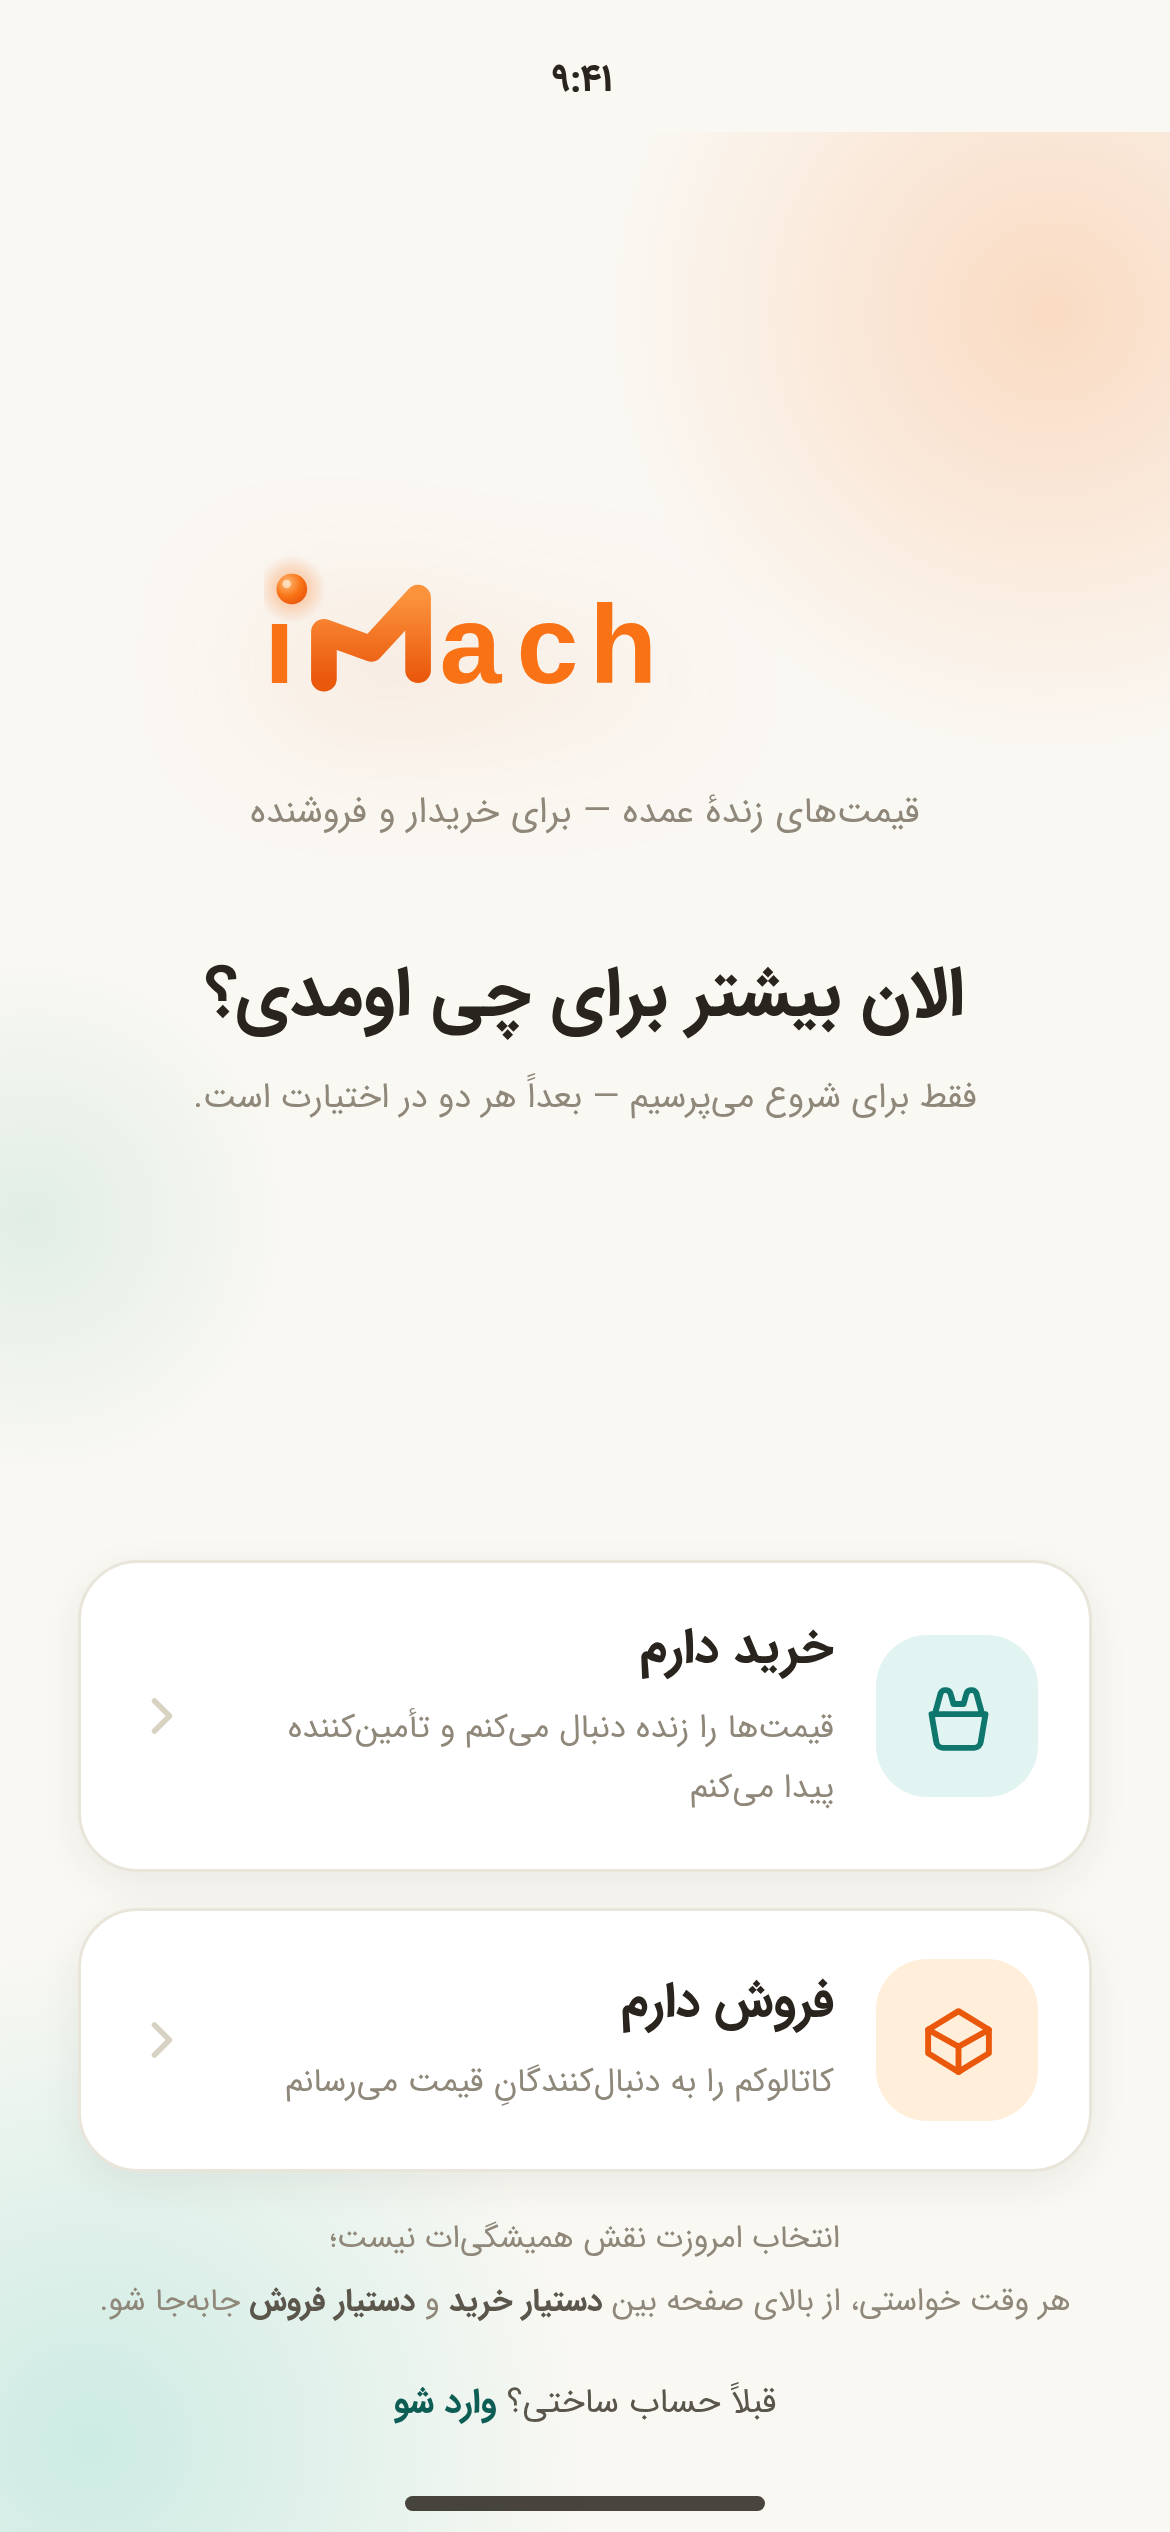
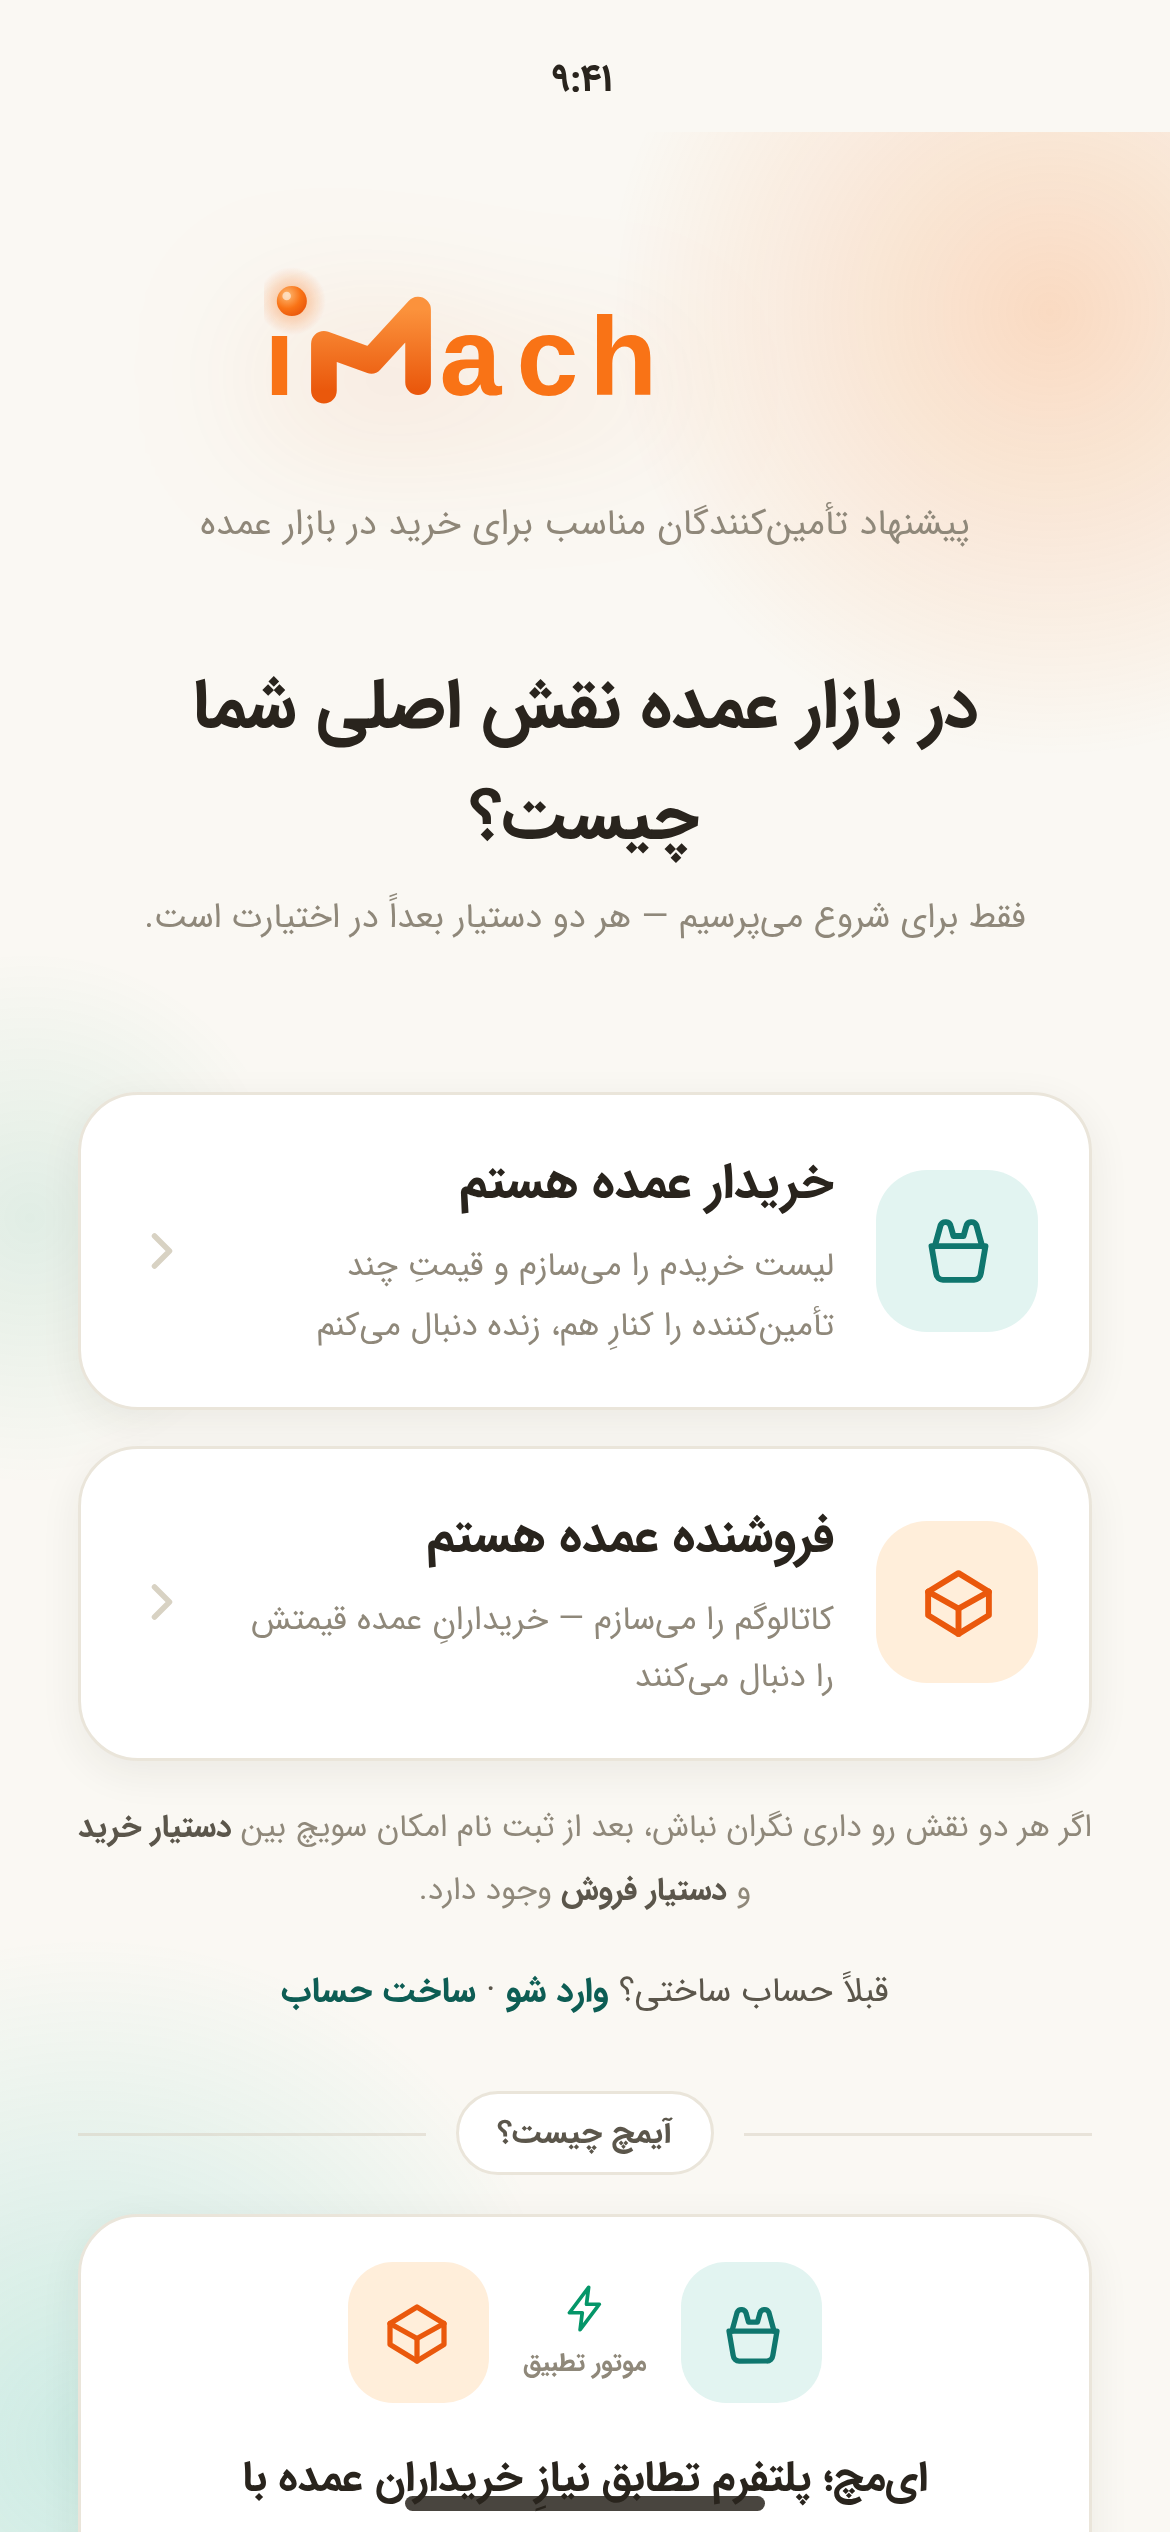
redesign-final v10.1 (owner feedback): صفحهٔ شروع — اصلاح ارتفاع دکمههای نقش + متون جدید · flex-shrink:0 برای فرزندان آنبوردینگ (متن دکمهها دیگر کلیپ نمیشود، صفحه اسکرول میکند) · tagline: پیشنهاد تأمینکنندگان مناسب برای خرید در بازار عمده · سؤال: در بازار عمده نقش اصلی شما چیست؟ · دکمهها: خریدار عمد

diff --git a/redesign-final/index.html b/redesign-final/index.html
@@ -182,21 +182,21 @@
             <div class="blobs"><i class="b1"></i><i class="b2"></i><i class="b3"></i></div>
             <div class="mid">
               <img class="logo-h" src="assets/logo3.svg" alt="iMatch">
-              <div class="tagline">قیمتِ زندهٔ بازار عمدهٔ ایران</div>
-              <div class="q">برای شروع، بیشتر سمت کدُمی؟</div>
+              <div class="tagline">پیشنهاد تأمینکنندگان مناسب برای خرید در بازار عمده</div>
+              <div class="q">در بازار عمده نقش اصلی شما چیست؟</div>
               <div class="qsub">فقط برای شروع میپرسیم — هر دو دستیار بعداً در اختیارت است.</div>
             </div>
             <button class="choice-card buy" onclick="choose('buy')">
               <span class="ico"><svg><use href="#i-basket"/></svg></span>
-              <span class="tx"><b>خرید عمده دارم</b><span>لیست خریدم را میسازم و قیمتِ چند تأمینکننده را کنارِ هم، زنده دنبال میکنم</span></span>
+              <span class="tx"><b>خریدار عمده هستم</b><span>لیست خریدم را میسازم و قیمتِ چند تأمینکننده را کنارِ هم، زنده دنبال میکنم</span></span>
               <svg class="ar"><use href="#i-back"/></svg>
             </button>
             <button class="choice-card sell" onclick="choose('sell')">
               <span class="ico"><svg><use href="#i-box"/></svg></span>
-              <span class="tx"><b>فروش عمده دارم</b><span>کاتالوگم را میسازم — خریدارانِ عمده قیمتش را دنبال میکنند</span></span>
+              <span class="tx"><b>فروشنده عمده هستم</b><span>کاتالوگم را میسازم — خریدارانِ عمده قیمتش را دنبال میکنند</span></span>
               <svg class="ar"><use href="#i-back"/></svg>
             </button>
-            <div class="footnote">انتخاب امروزت نقش همیشگیات نیست؛<br>هر وقت خواستی، از بالای صفحه بین <b>دستیار خرید عمده</b> و <b>دستیار فروش عمده</b> جابهجا شو.</div>
+            <div class="footnote">اگر هر دو نقش رو داری نگران نباش، بعد از ثبت نام امکان سویچ بین <b>دستیار خرید</b> و <b>دستیار فروش</b> وجود دارد.</div>
             <div class="login-link">قبلاً حساب ساختی؟ <u onclick="go('sc-login')" style="cursor:pointer">وارد شو</u> · <u onclick="go('sc-signup')" style="cursor:pointer">ساخت حساب</u></div>
 
             <!-- ═══ v10: معرفی آیمچ — چیست و چه فیضی دارد (زیر ثبتنام) ═══ -->

diff --git a/redesign-final/css/style.css b/redesign-final/css/style.css
@@ -2106,6 +2106,9 @@ textarea.inp { resize: none; height: 74px; line-height: 1.9; }
 /* ── v10: معرفی آیمچ در صفحهٔ شروع (زیر ثبتنام) ── */
 .onboard { overflow-y: auto; overflow-x: hidden; scrollbar-width: none; }
 .onboard .mid { min-height: 312px; }
+/* v10.1: هیچ فرزندی از آنبوردینگ فشرده نمیشود — دکمهها ارتفاع کامل میگیرند و صفحه اسکرول میکند */
+.onboard > * { flex-shrink: 0; }
+.choice-card .tx b { line-height: 1.7; }
 .intro-wrap { position: relative; margin-top: 24px; }
 .intro-sep { display: flex; align-items: center; gap: 10px; }
 .intro-sep i { flex: 1; height: 1px; background: var(--border-strong); opacity: .55; }
